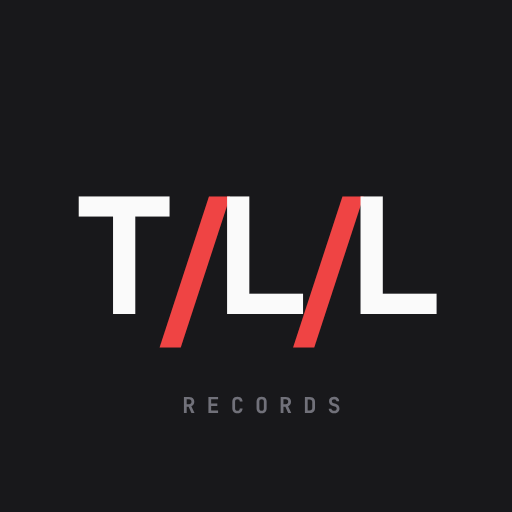
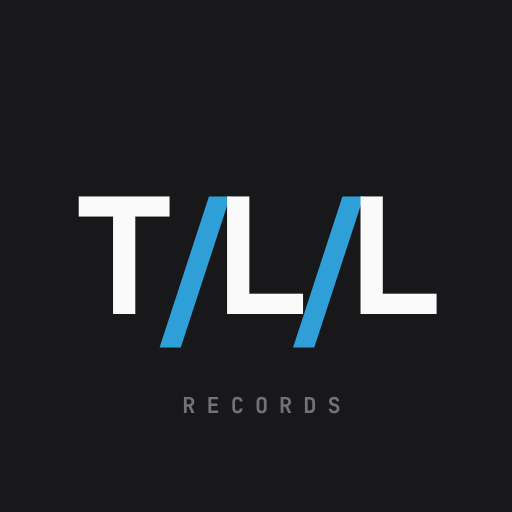
메인 색을 바하마 블루(#026395)로: 화면 강조색·로고 사선·아이콘·3D 카트리지·램프, sw tll-v2
Claude-Session: https://claude.ai/code/session_016AQsQXpABfGs7GoQuX7Ehx

Changed region(s): [[0.5625, 0.375, 0.7188, 0.6875], [0.3125, 0.375, 0.4688, 0.6875]]

diff --git a/public/index.html b/public/index.html
@@ -32,6 +32,7 @@
 :root {
   --chassis: #F3F4F6; --plinth: #FFFFFF; --warm: #F9FAFB; --line: #E5E7EB; --line-2: #D4D4D8;
   --ink: #111827; --ink-2: #374151; --muted: #6B7280; --red: #E60012;
+  --main: #026395; --main-glow: #2f9fd8; /* 메인 색 바하마 블루(2026-11-13). --red는 지우기·경고에만 */
   --z50: #FAFAFA; --z100: #F4F4F5; --z200: #E4E4E7; --z300: #D4D4D8; --z400: #A1A1AA; --z800: #27272A;
   --mono: 'JetBrains Mono', 'Noto Sans KR', monospace;
   --sans: 'Space Grotesk', 'Noto Sans KR', system-ui, sans-serif;
@@ -55,7 +56,7 @@ button:disabled { cursor: default; opacity: .45; }
 .mono { font-family: var(--mono); }
 .ico { width: 18px; height: 18px; fill: currentColor; flex: none; }
 .led { width: 8px; height: 8px; border-radius: 50%; background: var(--z800); flex: none; }
-.led.on { background: var(--red); box-shadow: 0 0 6px var(--red); }
+.led.on { background: var(--main-glow); box-shadow: 0 0 6px var(--main-glow); }
 .btn { display: inline-flex; align-items: center; gap: 6px; min-height: 36px; padding: 0 12px; background: #fff; border: 1px solid var(--z300); border-radius: 6px; box-shadow: var(--shadow-xs); font-family: var(--mono); font-size: 12px; font-weight: 700; color: var(--ink-2); transition: background .15s, transform .1s; }
 .btn:hover:not(:disabled) { background: var(--z50); }
 .btn:active:not(:disabled) { transform: scale(.97); }
@@ -71,7 +72,7 @@ button:disabled { cursor: default; opacity: .45; }
 .sab b span { font-family: var(--mono); font-size: 9px; font-weight: 600; padding: 0 5px; background: var(--z100); border: 1px solid var(--z300); border-radius: 4px; color: var(--ink-2); }
 .sab small { font-family: var(--mono); font-size: 9px; color: var(--muted); letter-spacing: .12em; }
 .sab b.tll { font-size: 16px; letter-spacing: -.01em; gap: 0; }
-.sab b.tll i { font-style: normal; color: var(--red); margin: 0 1px; }
+.sab b.tll i { font-style: normal; color: var(--main); margin: 0 1px; }
 .vbar { width: 1px; height: 16px; background: var(--line); flex: none; }
 .now { display: flex; align-items: center; gap: 10px; min-width: 0; }
 .now .t { text-align: right; min-width: 0; }
@@ -93,7 +94,7 @@ main { flex: 1; width: 100%; max-width: 1440px; margin: 0 auto; padding: 16px ma
 .seg button { display: flex; align-items: center; gap: 6px; padding: 5px 10px; min-height: 30px; font-family: var(--mono); font-size: 12px; font-weight: 700; color: var(--muted); border-radius: 4px; }
 .seg button[aria-pressed="true"] { background: #fff; color: var(--ink); box-shadow: var(--shadow-xs); }
 .seg button .led { width: 6px; height: 6px; background: var(--z300); }
-.seg button[aria-pressed="true"] .led { background: var(--red); box-shadow: 0 0 6px var(--red); }
+.seg button[aria-pressed="true"] .led { background: var(--main-glow); box-shadow: 0 0 6px var(--main-glow); }
 .hint { font-family: var(--mono); font-size: 9px; color: var(--muted); letter-spacing: .08em; font-weight: 600; }
 .readout { display: flex; align-items: center; gap: 8px; padding: 4px 10px; background: var(--z50); border: 1px solid var(--line); border-radius: 6px; font-family: var(--mono); font-size: 12px; box-shadow: var(--shadow-xs); max-width: 100%; min-width: 0; }
 .readout span:first-child { color: var(--muted); font-size: 10px; font-weight: 600; }
@@ -104,7 +105,7 @@ main { flex: 1; width: 100%; max-width: 1440px; margin: 0 auto; padding: 16px ma
 .tower { position: absolute; left: 4px; top: 12px; width: 40px; height: 64px; background: linear-gradient(#fff, var(--z100)); border: 1px solid var(--z300); border-radius: 3px 3px 0 0; box-shadow: 0 4px 6px rgba(0,0,0,.08); display: flex; flex-direction: column; align-items: center; justify-content: space-between; padding: 8px 0; z-index: 5; }
 .tower i { width: 16px; height: 16px; border-radius: 50%; background: var(--z800); display: grid; place-items: center; }
 .tower i::after { content: ''; width: 6px; height: 6px; border-radius: 50%; background: #fff; transition: background .3s, box-shadow .3s; }
-body.playing .tower i::after { background: var(--red); box-shadow: 0 0 8px var(--red); }
+body.playing .tower i::after { background: var(--main-glow); box-shadow: 0 0 8px var(--main-glow); }
 .tower span { font-family: var(--mono); font-size: 7px; font-weight: 700; letter-spacing: .1em; color: var(--muted); }
 .deck { position: relative; width: var(--pl); height: var(--pl); flex: none; }
 .platter { position: absolute; inset: 0; border-radius: 50%; padding: 10px; background: linear-gradient(135deg, var(--z300), var(--z100), var(--z400)); border: 4px solid var(--z200); box-shadow: 0 16px 40px rgba(0,0,0,.18); display: grid; place-items: center; }
@@ -182,7 +183,7 @@ input[type="range"]::-moz-range-thumb { width: 14px; height: 14px; border-radius
 .ct .art.empty i { background: linear-gradient(135deg, #d8c8aa, #c4b08a); }
 .ct b { font-size: 13px; overflow: hidden; text-overflow: ellipsis; white-space: nowrap; display: flex; align-items: center; gap: 6px; }
 .ct small { font-family: var(--mono); font-size: 10px; color: var(--muted); overflow: hidden; text-overflow: ellipsis; white-space: nowrap; }
-.ct small.hit { color: var(--red); }
+.ct small.hit { color: var(--main); }
 .ct .tools { position: absolute; top: 6px; right: 6px; display: flex; gap: 4px; z-index: 2; }
 .ct .tools button { width: 26px; height: 26px; border-radius: 6px; background: rgba(255,255,255,.92); border: 1px solid var(--z300); font-size: 13px; color: var(--ink-2); display: grid; place-items: center; }
 .ct .tools button:disabled { opacity: .3; }
@@ -301,7 +302,7 @@ body.night .deckp input[type="range"]::-webkit-slider-runnable-track { backgroun
 /* 밀봉 신보: 위클리·데이리스트가 새로 나오면 크레이트 위에 비닐째 뜬다. 비닐을 손가락으로 그어 찢는다 */
 .seal { position: absolute; inset: 0; z-index: 70; display: flex; flex-direction: column; align-items: center; justify-content: center; gap: 14px; padding: 20px; background: rgba(17,24,39,.55); backdrop-filter: blur(3px); -webkit-backdrop-filter: blur(3px); border-radius: 12px; }
 .seal-h { font-family: var(--mono); font-size: 11px; font-weight: 700; letter-spacing: .2em; color: #fff; display: flex; align-items: center; gap: 8px; }
-.seal-h .led { background: var(--red); box-shadow: 0 0 8px var(--red); animation: blink 1.2s infinite; }
+.seal-h .led { background: var(--main-glow); box-shadow: 0 0 8px var(--main-glow); animation: blink 1.2s infinite; }
 @keyframes blink { 50% { opacity: .3; } }
 .seal-card { position: relative; width: min(78%, 300px); aspect-ratio: 1; border-radius: 3px; box-shadow: 0 30px 50px -12px rgba(0,0,0,.6); touch-action: none; cursor: crosshair; user-select: none; }
 .seal-card.open { cursor: pointer; }
@@ -558,7 +559,7 @@ dialog::backdrop { background: rgba(17,24,39,.35); }
   .lp.shine .sheen { animation: none; }
 }
 .jamdot { background: #16a34a; box-shadow: 0 0 6px #16a34a; }
-.magdot { position: absolute; top: 4px; right: 4px; width: 8px; height: 8px; border-radius: 50%; background: #e60012; }
+.magdot { position: absolute; top: 4px; right: 4px; width: 8px; height: 8px; border-radius: 50%; background: var(--main); }
 #magBtn { position: relative; }
 /* 신간 팝업: 오른쪽 위 MAG 버튼 밑에서 내려온다 */
 .magpop { position: fixed; z-index: 260; top: 70px; right: max(16px, env(safe-area-inset-right, 0px)); width: min(340px, calc(100vw - 32px)); padding: 16px 16px 14px 20px; border-radius: 14px; background: rgba(20,20,22,.94); color: #f4f4f5; box-shadow: 0 18px 50px rgba(0,0,0,.35); border-left: 6px solid var(--mc, #e60012); opacity: 0; transform: translateY(-14px) scale(.98); transition: opacity .35s, transform .45s cubic-bezier(.2,.9,.25,1.2); }
@@ -668,7 +669,7 @@ body.magon > header.top, body.magon > main, body.magon > .amb, body.magon > foot
             <path d="M 50 28 C 66 88, 16 148, 36 234" stroke="#CBD5E1" stroke-linecap="round" stroke-width="4.5" fill="none"/>
             <path d="M 50 28 C 66 88, 16 148, 36 234" opacity=".9" stroke="#fff" stroke-dasharray="35 170" stroke-linecap="round" stroke-width="1.5" fill="none"/>
             <rect x="27" y="222" width="18" height="26" rx="2" fill="#1E293B" stroke="#475569" transform="rotate(-18 36 234)"/>
-            <circle cx="34" cy="248" r="3.2" fill="#E60012"/>
+            <circle cx="34" cy="248" r="3.2" fill="#026395"/>
             <defs><linearGradient id="gBase" x1="0" y1="0" x2="0" y2="1"><stop offset="0" stop-color="#fff"/><stop offset=".5" stop-color="#e4e4e7"/><stop offset="1" stop-color="#d4d4d8"/></linearGradient></defs>
           </svg>
         </div>
@@ -2073,7 +2074,7 @@ body.magon > header.top, body.magon > main, body.magon > .amb, body.magon > foot
           { transform: 'translate(-4px,3px)' }, { transform: 'translate(3px,-2px)' }, { transform: 'translate(-1px,1px)' }, { transform: 'translate(0,0)' },
         ], { duration: 380, easing: 'ease-out' }));
         const ring = document.querySelector('.platter');
-        if (!use3d) dropAnims.push(ring.animate([{ boxShadow: '0 0 0 0 rgba(230,0,18,.55), 0 16px 40px rgba(0,0,0,.18)' }, { boxShadow: '0 0 0 26px rgba(230,0,18,0), 0 16px 40px rgba(0,0,0,.18)' }], { duration: 500, easing: 'ease-out' }));
+        if (!use3d) dropAnims.push(ring.animate([{ boxShadow: '0 0 0 0 rgba(2,99,149,.55), 0 16px 40px rgba(0,0,0,.18)' }, { boxShadow: '0 0 0 26px rgba(2,99,149,0), 0 16px 40px rgba(0,0,0,.18)' }], { duration: 500, easing: 'ease-out' }));
         if (navigator.vibrate) try { navigator.vibrate(40); } catch {}
       }, hit));
       sfx.slide(0, 0.5); sfx.slam(hit / 1000); sfx.rip(1.05);

diff --git a/public/3d/deck3d.js b/public/3d/deck3d.js
@@ -283,9 +283,9 @@ function start() {
     lampBody.position.set(lampAt.x, PLATE + 0.033, lampAt.z); deck.add(lampBody);
     for (const yy of [0.02, 0.03, 0.04]) { const gr2 = new THREE.Mesh(new THREE.TorusGeometry(0.0295, 0.0018, 6, 32), new THREE.MeshStandardMaterial({ color: 0x3a3c42, metalness: 0.5, roughness: 0.5 })); gr2.rotation.x = Math.PI / 2; gr2.position.set(lampAt.x, PLATE + yy, lampAt.z); deck.add(gr2); }
     const cap2 = new THREE.Mesh(new THREE.CylinderGeometry(0.026, 0.028, 0.008, 32), new THREE.MeshStandardMaterial({ color: 0x1d1f24, roughness: 0.5 })); cap2.position.set(lampAt.x, PLATE + 0.062, lampAt.z); deck.add(cap2);
-    const lens = new THREE.Mesh(new THREE.SphereGeometry(0.016, 16, 12), new THREE.MeshStandardMaterial({ color: 0xff3a2a, emissive: 0xff2010, emissiveIntensity: 1.6 }));
+    const lens = new THREE.Mesh(new THREE.SphereGeometry(0.016, 16, 12), new THREE.MeshStandardMaterial({ color: 0x3aa8e0, emissive: 0x1f8fd0, emissiveIntensity: 1.6 }));
     lens.position.set(lampAt.x + 0.02, PLATE + 0.046, lampAt.z - 0.019); deck.add(lens);
-    const glow = new THREE.PointLight(0xff3020, 0.35, 0.5, 2); glow.position.set(lampAt.x + 0.03, PLATE + 0.05, lampAt.z - 0.03); deck.add(glow); D._glow = glow;
+    const glow = new THREE.PointLight(0x2f9fd8, 0.35, 0.5, 2); glow.position.set(lampAt.x + 0.03, PLATE + 0.05, lampAt.z - 0.03); deck.add(glow); D._glow = glow;
     const lip = new THREE.Mesh(new THREE.TorusGeometry(PL_R - 0.003, 0.004, 8, 128), alu); lip.rotation.x = Math.PI / 2; lip.position.y = PL_TOP - 0.001; node.add(lip);
     // 고무 매트: 동심원 무늬
     const mc = document.createElement('canvas'); mc.width = mc.height = 512; const mg = mc.getContext('2d');
@@ -376,7 +376,7 @@ function start() {
     // 헤드셸(관 끝에서 비스듬히) + 카트리지 + 손잡이
     const hs = new THREE.Group(); hs.position.copy(end); hs.rotation.y = -0.4; lift.add(hs);
     add(new THREE.Mesh(new THREE.BoxGeometry(0.084, 0.015, 0.155), black), 0, 0, 0.075, hs);
-    const cart = add(new THREE.Mesh(new THREE.BoxGeometry(0.054, 0.036, 0.07), new THREE.MeshStandardMaterial({ color: 0xc8102e, roughness: 0.45 })), 0, -0.025, 0.092, hs);
+    const cart = add(new THREE.Mesh(new THREE.BoxGeometry(0.054, 0.036, 0.07), new THREE.MeshStandardMaterial({ color: 0x026395, roughness: 0.45 })), 0, -0.025, 0.092, hs);
     add(new THREE.Mesh(new THREE.BoxGeometry(0.044, 0.014, 0.028), black), 0, -0.047, 0.108, hs);
     const fl = add(new THREE.Mesh(new THREE.BoxGeometry(0.05, 0.006, 0.016), chrome), 0.05, 0.006, 0.11, hs); fl.rotation.z = 0.35;
     // 바늘 끝(헤드셸 기준 -0.054)이 판 윗면(REC_Y + 0.004 = 0.078)에 닿도록 ARM_H = 0.078 + 0.016 + 0.054 + 여유
@@ -450,7 +450,7 @@ function start() {
       const kc = document.createElement('canvas'); kc.width = kc.height = 256; const kg = kc.getContext('2d');
       const kgr = kg.createRadialGradient(128, 128, 10, 128, 128, 128); kgr.addColorStop(0, '#e8eaee'); kgr.addColorStop(1, '#a9adb3'); kg.fillStyle = kgr; kg.beginPath(); kg.arc(128, 128, 128, 0, 7); kg.fill();
       for (let r = 20; r < 128; r += 4) { kg.strokeStyle = 'rgba(255,255,255,.18)'; kg.lineWidth = 1; kg.beginPath(); kg.arc(128, 128, r, 0, 7); kg.stroke(); }
-      kg.fillStyle = '#c8102e'; kg.fillRect(124, 14, 8, 50);
+      kg.fillStyle = '#026395'; kg.fillRect(124, 14, 8, 50);
       const kt = new THREE.CanvasTexture(kc); kt.colorSpace = THREE.SRGBColorSpace;
       const knurl = document.createElement('canvas'); knurl.width = 512; knurl.height = 32; const ng = knurl.getContext('2d'); for (let i = 0; i < 128; i++) { ng.fillStyle = i % 2 ? '#eef0f3' : '#7d8188'; ng.fillRect(i * 4, 0, 2, 32); }
       const nt = new THREE.CanvasTexture(knurl); nt.colorSpace = THREE.SRGBColorSpace;
@@ -471,7 +471,7 @@ function start() {
     for (let i = 0; i <= 10; i++) { const tk = new THREE.Mesh(new THREE.BoxGeometry(i % 5 ? 0.02 : 0.035, 0.002, 0.003), darkM); tk.position.set(-0.04, 0.0015, -0.25 + i * 0.05); sl.add(tk); }
     const knob = new THREE.Mesh(new THREE.BoxGeometry(0.07, 0.03, 0.04), [satinM, satinM, new THREE.MeshStandardMaterial({ color: 0xe6e8ea, metalness: 0.9, roughness: 0.25 }), satinM, satinM, satinM]);
     knob.position.y = 0.018; knob.userData.act = 'slider'; sl.add(knob); clickables.push(knob); ctl.knob = knob; ctl.slider = sl;
-    const kl = new THREE.Mesh(new THREE.BoxGeometry(0.072, 0.002, 0.006), new THREE.MeshStandardMaterial({ color: 0xc8102e })); kl.position.y = 0.034; knob.add(kl); kl.position.set(0, 0.016, 0);
+    const kl = new THREE.Mesh(new THREE.BoxGeometry(0.072, 0.002, 0.006), new THREE.MeshStandardMaterial({ color: 0x026395 })); kl.position.y = 0.034; knob.add(kl); kl.position.set(0, 0.016, 0);
     engrave('VOLUME', 0.8, 0.578, 0.1, 34);
     // 오른쪽 아래: 앰버 시간 표시창 · 템포 범위 버튼(8/16, 장식) · RESET(볼륨 50)
     {
@@ -510,7 +510,7 @@ function start() {
     const dc = document.createElement('canvas'); dc.width = dc.height = 128; const dg = dc.getContext('2d');
     dg.fillStyle = '#cfd2d6'; dg.beginPath(); dg.arc(64, 64, 64, 0, 7); dg.fill(); dg.fillStyle = '#1d1f24'; dg.font = '700 18px "JetBrains Mono", monospace'; dg.textAlign = 'center'; dg.textBaseline = 'middle';
     for (let i = 0; i < 4; i++) { const a = -Math.PI / 2 + i * Math.PI / 2; dg.fillText(String(i), 64 + Math.cos(a) * 46, 64 + Math.sin(a) * 46); }
-    dg.fillStyle = '#c8102e'; dg.fillRect(62, 6, 4, 22);
+    dg.fillStyle = '#026395'; dg.fillRect(62, 6, 4, 22);
     const dt2 = new THREE.CanvasTexture(dc); dt2.colorSpace = THREE.SRGBColorSpace;
     const dk = new THREE.Mesh(new THREE.CylinderGeometry(0.036, 0.038, 0.024, 40), [satinM, new THREE.MeshStandardMaterial({ map: dt2, metalness: 0.5, roughness: 0.4 }), satinM]);
     dk.position.y = 0.012; dk.userData.act = 'dial'; dial.add(dk); clickables.push(dk); ctl.dial = dk;
@@ -607,7 +607,7 @@ function start() {
     buildControls();
     buildFx();
     // 후광: 스트로브 등 · 33/45 불 · 전원 LED · 바늘 조명
-    halo(deck, D._glow.position.clone().add(new THREE.Vector3(-0.012, -0.01, 0.013)), 0xff4a30, 0.16, () => 0.55 + night * 0.4);
+    halo(deck, D._glow.position.clone().add(new THREE.Vector3(-0.012, -0.01, 0.013)), 0x3aa8e0, 0.16, () => 0.55 + night * 0.4);
     halo(ctl.speed.s33.ring.parent, new THREE.Vector3(0, 0.01, 0), 0xff7a3a, 0.08, () => (speed45 ? 0 : 0.45));
     halo(ctl.speed.s45.ring.parent, new THREE.Vector3(0, 0.01, 0), 0xff7a3a, 0.08, () => (speed45 ? 0.45 : 0));
     halo(ctl.pled.parent, ctl.pled.position.clone(), 0x44ff88, 0.07, () => (playing ? 0.8 : 0));

diff --git a/scripts/tll-icon.html b/scripts/tll-icon.html
@@ -11,15 +11,15 @@ body { margin: 0; background: #e4e4e7; font-family: 'Space Grotesk', sans-serif;
 .w { position: absolute; inset: 0; display: grid; place-items: center; }
 .t { font-weight: 700; letter-spacing: -.02em; line-height: 1; }
 .t i { font-style: normal; }
-/* A 명판: 검정 바탕, 흰 글자, 빨간 사선 */
+/* A 명판: 검정 바탕, 흰 글자, 바하마 블루 사선 */
 #A { background: #18181b; }
-#A .t { color: #fafafa; font-size: 168px; } #A .t i { color: #ef4444; margin: 0 -8px; }
+#A .t { color: #fafafa; font-size: 168px; } #A .t i { color: #2f9fd8; margin: 0 -8px; }
 #A .sub { position: absolute; bottom: 92px; width: 100%; text-align: center; font: 700 22px 'JetBrains Mono'; letter-spacing: .5em; color: #71717a; padding-left: .5em; }
-/* B 판: 검은 LP + 빨간 라벨 */
+/* B 판: 검은 LP + 바하마 블루 라벨 */
 #B { background: #f4f4f5; }
 #B .lp { position: absolute; inset: 36px; border-radius: 50%; background: repeating-radial-gradient(circle, #111 0 3px, #1c1c1f 3px 5px); box-shadow: inset 0 0 0 6px #0a0a0a; }
 #B .lp::after { content: ''; position: absolute; inset: 0; border-radius: 50%; background: conic-gradient(from 30deg, transparent 0 40deg, rgba(255,255,255,.14) 60deg, transparent 80deg 220deg, rgba(255,255,255,.1) 240deg, transparent 260deg); }
-#B .lbl { position: absolute; left: 50%; top: 50%; width: 236px; height: 236px; margin: -118px; border-radius: 50%; background: #e11d2a; display: grid; place-items: center; z-index: 1; }
+#B .lbl { position: absolute; left: 50%; top: 50%; width: 236px; height: 236px; margin: -118px; border-radius: 50%; background: #026395; display: grid; place-items: center; z-index: 1; }
 #B .t { color: #fff; font-size: 58px; } #B .t i { opacity: .55; margin: 0 -3px; }
 #B .hole { position: absolute; left: 50%; top: 50%; width: 16px; height: 16px; margin: -8px; border-radius: 50%; background: #f4f4f5; z-index: 2; }
 #B .lbl .t { transform: translateY(-46px); }
@@ -28,12 +28,12 @@ body { margin: 0; background: #e4e4e7; font-family: 'Space Grotesk', sans-serif;
 #C .st { position: absolute; inset: 0; }
 #C .st b { position: absolute; font-size: 210px; color: #18181b; line-height: 1; font-weight: 700; }
 #C .st b:nth-child(1) { left: 70px; top: 40px; } #C .st b:nth-child(2) { left: 196px; top: 150px; } #C .st b:nth-child(3) { left: 322px; top: 260px; }
-#C .sl { position: absolute; width: 10px; height: 640px; background: #ef4444; left: 251px; top: -64px; transform: rotate(-45deg); transform-origin: center; opacity: .9; }
+#C .sl { position: absolute; width: 10px; height: 640px; background: #026395; left: 251px; top: -64px; transform: rotate(-45deg); transform-origin: center; opacity: .9; }
 /* D 각인: 헤어라인 알루미늄 */
 #D { background: repeating-linear-gradient(90deg, rgba(255,255,255,.18) 0 1px, rgba(0,0,0,.035) 1px 3px), linear-gradient(160deg, #e7e7ea, #b9bac0 55%, #d9d9dd); }
 #D .t { font-size: 150px; color: #3a3b40; text-shadow: 0 2px 0 rgba(255,255,255,.75), 0 -1px 0 rgba(0,0,0,.25); letter-spacing: .02em; }
-#D .t i { color: #c81e1e; }
-#D .dot { position: absolute; right: 70px; top: 70px; width: 22px; height: 22px; border-radius: 50%; background: #ef4444; box-shadow: 0 0 18px #ef4444; }
+#D .t i { color: #026395; }
+#D .dot { position: absolute; right: 70px; top: 70px; width: 22px; height: 22px; border-radius: 50%; background: #2f9fd8; box-shadow: 0 0 18px #2f9fd8; }
 #D .sub { position: absolute; bottom: 86px; width: 100%; text-align: center; font: 700 20px 'JetBrains Mono'; letter-spacing: .4em; color: #55565c; padding-left: .4em; }
 </style></head><body>
 <div class="sheet">

diff --git a/public/jam/guest.js b/public/jam/guest.js
@@ -20,7 +20,7 @@ const CSS = `
 .jg-list li .w em { font-style: normal; color: var(--muted); }
 .jg-list li .by { flex: none; font-size: 11px; color: #6a5a9a; }
 .jg-list li.cur { background: #fff7cc; font-weight: 600; }
-.jg-list li.cur .n::before { content: '▶ '; color: var(--red); }
+.jg-list li.cur .n::before { content: '▶ '; color: var(--main, #026395); }
 .jg-list li.done { color: var(--muted); }
 .jg-list li.wait { color: var(--muted); font-style: italic; }
 .jg-list .empty { padding: 18px 12px; text-align: center; color: var(--muted); font-size: 12px; }
@@ -36,7 +36,7 @@ const CSS = `
 .jg-res li div { flex: 1; min-width: 0; }
 .jg-res li b { display: block; font-size: 13px; white-space: nowrap; overflow: hidden; text-overflow: ellipsis; }
 .jg-res li small { display: block; font-size: 11px; color: var(--muted); white-space: nowrap; overflow: hidden; text-overflow: ellipsis; }
-.jg-res li .plus { font-family: var(--mono); font-size: 12px; font-weight: 700; color: var(--red); }
+.jg-res li .plus { font-family: var(--mono); font-size: 12px; font-weight: 700; color: var(--main, #026395); }
 .jg-res li.raw i { display: grid; place-items: center; background: var(--z100); font-size: 18px; }
 `;
 

diff --git a/public/sw.js b/public/sw.js
@@ -2,7 +2,7 @@
 // - 앱 파일: 캐시를 먼저 보여 주고 뒤에서 새 파일을 받아 둔다(다음에 열 때 반영)
 // - 새로고침은 네트워크를 먼저 쓴다. 글꼴은 따로 캐시. /api/ 는 건드리지 않는다
 // 여러 파일을 함께 고쳤으면 VERSION을 올린다
-const VERSION = 'tll-v1';
+const VERSION = 'tll-v2';
 const FONTS = 'tll-fonts-1';
 const KEEP = [VERSION, FONTS];
 const SHELL = [

diff --git a/CLAUDE.md b/CLAUDE.md
@@ -10,6 +10,7 @@ Spotify 턴테이블 앱. 2026-11-13 Sabathia(`oasilsu0829/sabathia`)의 음악 
 - Spotify 대시보드 Redirect URIs: `https://tll.oasilsu0829.workers.dev/` 와 `https://tll.oasilsu0829.workers.dev/deck/`
 - 옮기기: Sabathia `/music/`이 처음 한 번 그 기기의 `music.*`·`mag.*`(로그인 토큰 제외)를 `#from=<base64url JSON>`에 담아 보낸다 → `public/shell.js`가 여기 없는 키만 채우고 주소에서 지운다. Sabathia `/deck/…`·`/music/<파일>`은 이쪽으로 301
 - 로고 T/L/L(2026-11-13): 앱 아이콘은 `scripts/tll-icon.html`의 4안(A 명판 · B 판 라벨 · C 계단 · D 각인) 중 A. 바꾸기 `node scripts/tll-icon.cjs <안>`. 화면 글자·3D 각인·명판·라벨·붐박스 상표·Spotify 기기 이름(DEV)도 T/L/L
+- 메인 색 바하마 블루 #026395(2026-11-13 사용자 요청). index.html `--main`, 어두운 데 켜지는 불은 `--main-glow` #2f9fd8. `--red`는 지우기·경고에만. 3D 카트리지·노브 표시·불빛(스트로브 램프)도 파랑. 그대로 둔 빨강: 잼 REC, RCA 케이블, 클립보드 여백 줄, 잡지 자체 색
 - 테스트: `npm test` (test/music.mjs 합치기, test/music-api.mjs API — node:sqlite)
 
 ## 구조
